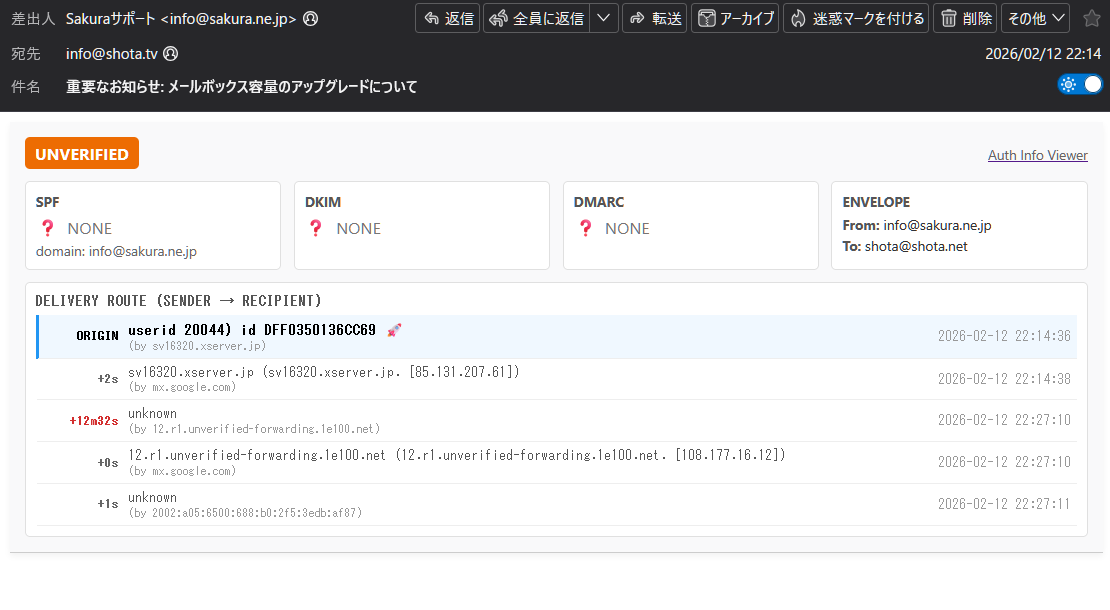
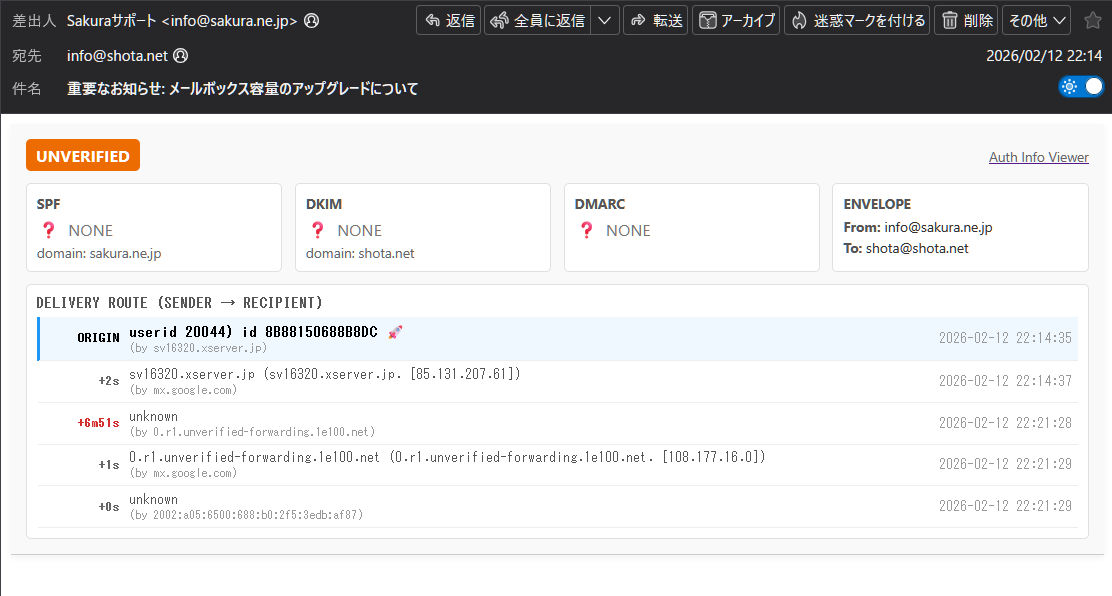
表示改善

diff --git a/messagedisplay.js b/messagedisplay.js
@@ -77,20 +77,81 @@
 
     // 結合したヘッダ群から特定の認証タイプに関連する詳細情報(ドメイン等)を抽出するヘルパー
     const extractDetail = (type) => {
-      for (const h of authHeaders) {
-        if (type === 'spf') {
-           const match = h.match(/smtp\.mailfrom=([^;\s]+)/i);
-           if (match) return `domain: ${match[1]}`;
+      if (type === 'spf') {
+        let domain = "";
+        let ip = "";
+        
+        for (const h of authHeaders) {
+          // 1. ドメインの抽出 (smtp.mailfrom= または コメント内の domain of から取得)
+          const mailfromMatch = h.match(/smtp\.mailfrom=([^;\s()]+)/i);
+          if (mailfromMatch) {
+            // < > が付いている場合の除去
+            const fromStr = mailfromMatch[1].replace(/^<|>$/g, '');
+            // メールアドレス形式の場合は @ 以降のドメイン部分のみ抽出
+            domain = fromStr.includes('@') ? fromStr.split('@')[1] : fromStr;
+          } else {
+             // フォールバック: (domain of xxx@example.com ...) などのコメントから取得
+             const domainOfMatch = h.match(/domain of ([^;\s()]+)/i);
+             if (domainOfMatch) {
+               const fromStr = domainOfMatch[1];
+               domain = fromStr.includes('@') ? fromStr.split('@')[1] : fromStr;
+             }
+          }
+
+          // 2. IPアドレスの抽出 (Google形式: designates [IP] as... または 標準的な client-ip= から取得)
+          const ipMatch = h.match(/designates\s+([a-fA-F0-9.:]+)\s+as\s+permitted\s+sender/i) || 
+                          h.match(/client-ip=([a-fA-F0-9.:]+)/i);
+          if (ipMatch) {
+            ip = ipMatch[1];
+          }
+
+          // どちらか一方でも見つかれば結果を返す (<br>タグで改行してHTML出力)
+          if (domain || ip) {
+            const parts = [];
+            if (domain) parts.push(`domain: ${domain}`);
+            if (ip) parts.push(`IP address: ${ip}`);
+            return parts.join("<br>");
+          }
         }
-        if (type === 'dkim') {
-          const match = h.match(/header\.d=([^;\s]+)/i);
-          if (match) return `domain: ${match[1]}`;
-        }
-        if (type === 'dmarc') {
-          const match = h.match(/header\.from=([^;\s]+)/i);
-          if (match) return `domain: ${match[1]}`;
-        }
+        return "";
       }
+
+      if (type === 'dkim') {
+        const domains = new Set(); // 重複排除用にSetを使用
+        
+        for (const h of authHeaders) {
+          // header.d= と header.i= の両方をすべて抽出
+          const regex = /header\.(?:d|i)=([^;\s()]+)/ig;
+          let match;
+          
+          while ((match = regex.exec(h)) !== null) {
+            let dkimDomain = match[1];
+            
+            // header.i=@example.com や user@example.com の場合は @ 以降を取得
+            if (dkimDomain.includes('@')) {
+              dkimDomain = dkimDomain.split('@')[1];
+            }
+            if (dkimDomain) {
+               domains.add(dkimDomain);
+            }
+          }
+        }
+        
+        // 複数ある場合は " / " で結合して出力
+        if (domains.size > 0) {
+          return `domain: ${Array.from(domains).join(" / ")}`;
+        }
+        return "";
+      }
+
+      if (type === 'dmarc') {
+        for (const h of authHeaders) {
+          const match = h.match(/header\.from=([^;\s()]+)/i);
+          if (match) return `domain: ${match[1]}`;
+        }
+        return "";
+      }
+
       return "";
     };
 

diff --git a/README.md b/README.md
@@ -45,7 +45,7 @@ After installing the add-on, simply open any email in Thunderbird. A new informa
 
 ## 📥 Installation / インストール
 
-[**Download from ATN (Thunderbird Add-ons)**](https://addons.thunderbird.net/ja/thunderbird/addon/YOUR-ADDON-SLUG-HERE/)
+[**Download from ATN (Thunderbird Add-ons)**](https://addons.thunderbird.net/ja/thunderbird/addon/mail-auth-info-viewer/)
 
 You can also download the latest release directly from GitHub:  
 GitHubのReleasesからも最新版をダウンロードできます:  
